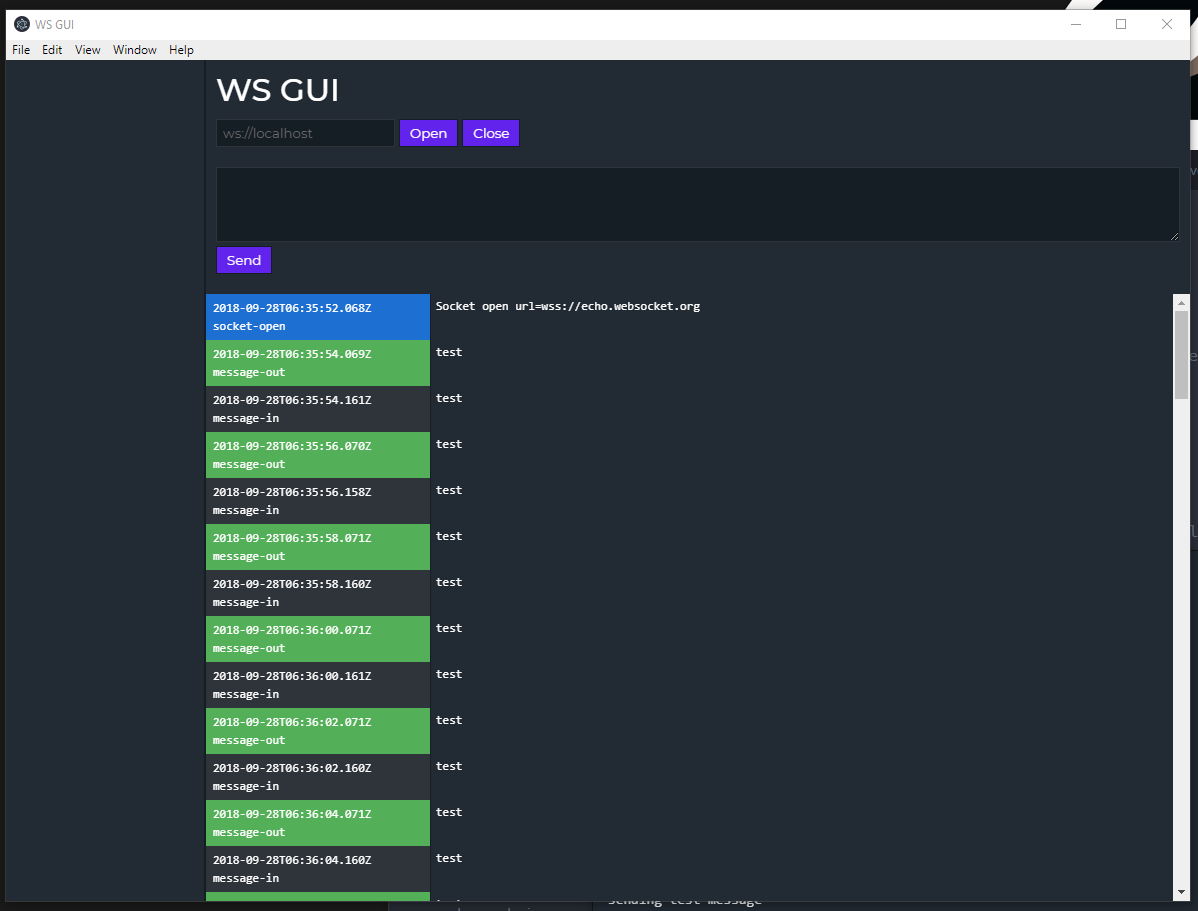
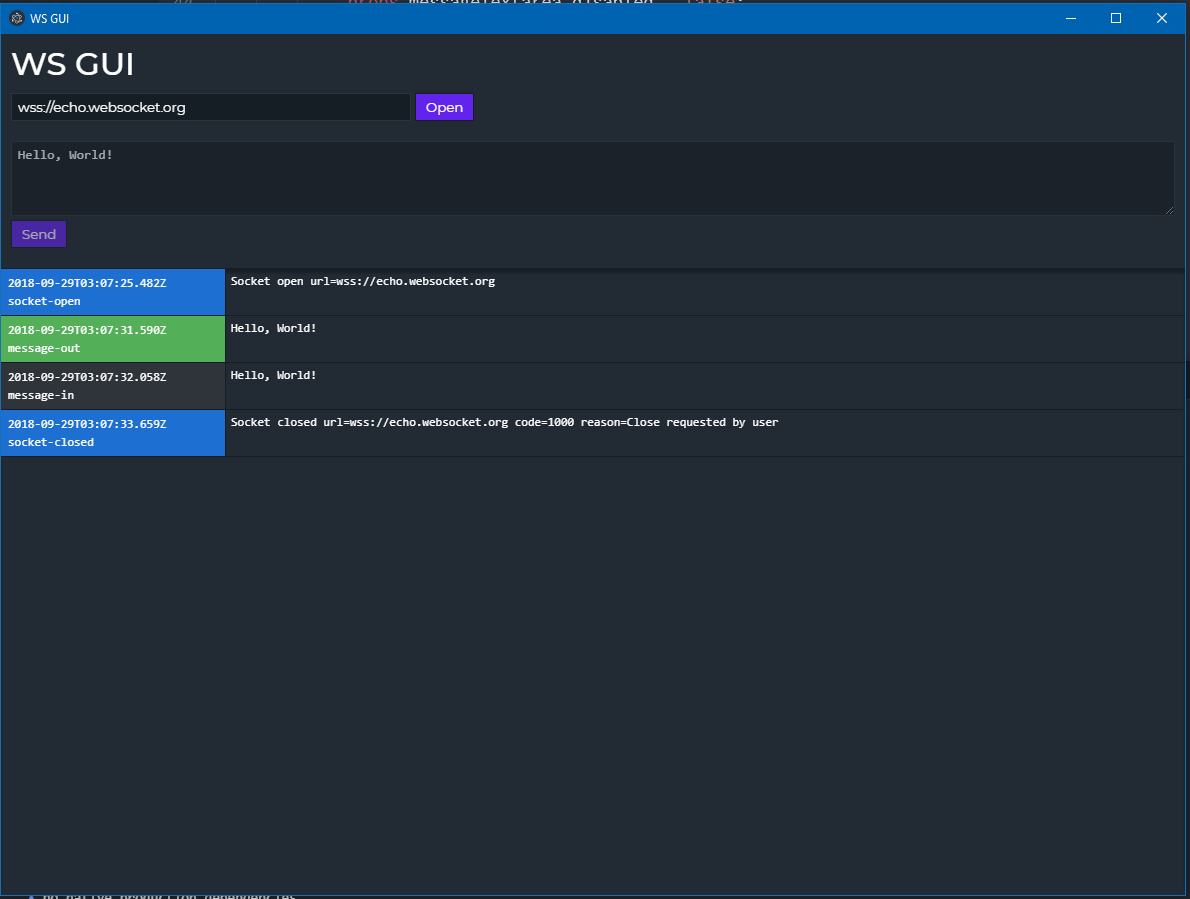
very basic functionality is working

Changed region(s): [[0.0, 0.0, 1.0, 1.0], [0.5908, 0.9655, 0.6218, 0.9967], [0.5286, 0.9655, 0.5597, 0.9967]]

diff --git a/src/components/outbound-panel/outbound-panel.js b/src/components/outbound-panel/outbound-panel.js
@@ -5,11 +5,14 @@ const { ipcRenderer } = require('electron');
 
 const props = new WeakMap();
 
+let nextMessageId = 1;
+
 exports.OutboundPanel = class OutboundPanel extends HTMLElement {
 	constructor() {
 		super();
 
 		const _props = {
+			state: 'closed',
 			shadow: initShadow(this, {
 				html: loadFile(__dirname, 'outbound-panel.html'),
 				css: [
@@ -22,19 +25,68 @@ exports.OutboundPanel = class OutboundPanel extends HTMLElement {
 		};
 
 		// Find the core elements we'll be working with
-		_props.openButton = _props.shadow.querySelector('#open');
-		_props.closeButton = _props.shadow.querySelector('#close');
+		_props.urlInput = _props.shadow.querySelector('#url');
+		_props.openCloseButton = _props.shadow.querySelector('#open-close');
+		_props.messageTextarea = _props.shadow.querySelector('#message');
+		_props.sendButton = _props.shadow.querySelector('#send');
 
-		// Bind the open socket button event
-		_props.openButton.addEventListener('click', () => {
-			ipcRenderer.send('socket.open', { url: 'wss://echo.websocket.org' });
+		// Bind the open/close socket button event
+		_props.openCloseButton.addEventListener('click', () => this.toggleOpen());
+
+		// Bind the send message button event
+		_props.sendButton.addEventListener('click', () => this.sendMessage());
+
+		// Bind the on open event
+		ipcRenderer.on('socket.open', () => {
+			_props.state = 'open';
+			_props.openCloseButton.disabled = false;
+			_props.sendButton.disabled = false;
+			_props.messageTextarea.disabled = false;
+			_props.openCloseButton.innerHTML = 'Close';
 		});
 
-		// Bind the close socket button event
-		_props.closeButton.addEventListener('click', () => {
-			ipcRenderer.send('socket.close', { code: 1000, reason: 'Close requested by user' });
+		// Bind the on open event
+		ipcRenderer.on('socket.closed', () => {
+			_props.state = 'closed';
+			_props.openCloseButton.disabled = false;
+			_props.openCloseButton.innerHTML = 'Open';
+			_props.urlInput.disabled = false;
 		});
 
 		props.set(this, _props);
+	}
+
+	toggleOpen() {
+		const _props = props.get(this);
+
+		switch (_props.state) {
+			// If it's open, then close the socket
+			case 'open':
+				_props.state = 'closing';
+				_props.openCloseButton.disabled = true;
+				_props.sendButton.disabled = true;
+				_props.messageTextarea.disabled = true;
+
+				ipcRenderer.send('socket.close', { code: 1000, reason: 'Close requested by user' });
+				break;
+
+			// If it's closed, then open the socket
+			case 'closed':
+				_props.state = 'opening';
+				_props.openCloseButton.disabled = true;
+				_props.urlInput.disabled = true;
+
+				ipcRenderer.send('socket.open', { url: _props.urlInput.value });
+				break;
+		}
+	}
+
+	sendMessage() {
+		const _props = props.get(this);
+
+		ipcRenderer.send('socket.send', {
+			id: nextMessageId++,
+			message: _props.messageTextarea.value
+		});
 	}
 };

diff --git a/src/socket/socket.js b/src/socket/socket.js
@@ -10,8 +10,6 @@ const props = new WeakMap();
 const maxBufferSize = 25;
 const maxBufferWait = 50;
 
-let testInterval;
-
 /**
  * Uses `ws.WebSocket` to make the actual outbound connection
  *
@@ -116,12 +114,6 @@ const onOpen = (socket) => () => {
 
 	app.send('socket.open', { time });
 	socket.pushToBuffer('socket-open', { url });
-
-	// REMOVEME - Test code
-	testInterval = setInterval(() => {
-		console.log('sending test message');
-		socket.send(1, 'test');
-	}, 2000);
 };
 
 const onMessage = (socket) => (message) => {
@@ -133,10 +125,8 @@ const onClose = (socket) => (code, reason) => {
 
 	console.log(`Socket closed code=${code} reason=${reason}`);
 
+	app.send('socket.closed', { code, reason });
 	socket.pushToBuffer('socket-close', { code, reason, url });
-
-	// REMOVEME - Test code
-	clearInterval(testInterval);
 };
 
 const onError = (socket) => (error) => {
@@ -166,5 +156,6 @@ const onUnexpectedResponse = (socket) => (req, res) => {
 };
 
 const onUpgrade = (socket) => (res) => {
-	//
+	console.log('Recieved socket upgrade response', res);
+	socket.pushToBuffer('socket-upgrade');
 };

diff --git a/src/components/connection-log/connection-log.js b/src/components/connection-log/connection-log.js
@@ -58,10 +58,22 @@ exports.ConnectionLog = class ConnectionLog extends HTMLElement {
 			redrawComponent(this, _props);
 		}
 	}
+
+	isScrolledToBottom() {
+		const { scrollTop, scrollHeight, offsetHeight } = this;
+
+		return (scrollTop + offsetHeight) >= scrollHeight;
+	}
 };
 
 const redrawComponent = (connectionLog, _props) => {
+	const isAtBottom = connectionLog.isScrolledToBottom();
+
 	_props.wrapper.innerHTML = _props.frames.join('');
+
+	if (isAtBottom) {
+		connectionLog.scrollTop = connectionLog.scrollHeight;
+	}
 };
 
 const drawFrame = (event) => {

diff --git a/src/main.js b/src/main.js
@@ -5,12 +5,18 @@ const { closeSocketForShutdown } = require('./socket');
 const createWindow = () => {
 	app.window = new BrowserWindow({
 		width: 1200,
-		height: 900
+		height: 900,
+		// frame: false,
+		title: 'WS GUI',
+		// icon: '',
+		webPreferences: {
+			backgroundThrottling: false
+		}
 	});
 
 	app.window.loadFile('src/main.html');
 
-	app.window.webContents.openDevTools({ mode: 'detach' });
+	// app.window.webContents.openDevTools({ mode: 'detach' });
 
 	app.window.on('closed', () => {
 		closeSocketForShutdown();

diff --git a/src/components/outbound-panel/outbound-panel.html b/src/components/outbound-panel/outbound-panel.html
@@ -1,12 +1,11 @@
 <div class="wrapper">
 	<h1>WS GUI</h1>
 	<div class="connection">
-		<input type="text" id="url" placeholder="ws://localhost" />
-		<button id="open">Open</button>
-		<button id="close">Close</button>
+		<input type="text" id="url" placeholder="ws://localhost" value="wss://echo.websocket.org" />
+		<button id="open-close">Open</button>
 	</div>
 	<div class="send-message">
-		<textarea id="message"></textarea>
+		<textarea id="message" disabled></textarea>
 		<br />
 		<button id="send">Send</button>
 	</div>

diff --git a/src/components/outbound-panel/outbound-panel.css b/src/components/outbound-panel/outbound-panel.css
@@ -1,6 +1,7 @@
 
 :host .wrapper {
 	padding: 10px;
+	border-bottom: 1px var(--color-grey-1) solid;
 }
 
 :host h1 {
@@ -11,6 +12,10 @@
 
 :host .connection {
 	padding: 10px 0;
+}
+
+:host #url {
+	width: 400px;
 }
 
 :host .send-message {

diff --git a/src/components/app/app.html b/src/components/app/app.html
@@ -1,7 +1,7 @@
 <div class="wrapper">
-	<aside>
+	<!-- <aside>
 		<ws-sidebar></ws-sidebar>
-	</aside>
+	</aside> -->
 	<main>
 		<ws-outbound-panel></ws-outbound-panel>
 		<ws-connection-log></ws-connection-log>

diff --git a/src/styles/inputs.css b/src/styles/inputs.css
@@ -7,3 +7,8 @@
 	border: 1px var(--color-grey-3) solid;
 	color: var(--color-white);
 }
+
+:host input[type="text"][disabled],
+:host textarea[disabled] {
+	opacity: 0.6;
+}

diff --git a/src/styles/buttons.css b/src/styles/buttons.css
@@ -7,3 +7,7 @@
 	font-family: var(--font-sans-serif);
 	border: 1px var(--color-grey-1) solid;
 }
+
+:host button[disabled] {
+	opacity: 0.6;
+}

diff --git a/src/components/app/app.css b/src/components/app/app.css
@@ -36,4 +36,5 @@
 	flex: 1 1 auto;
 	background: var(--color-grey-2);
 	overflow: auto;
+	box-shadow: 0px 4px 3px 0px rgba(0,0,0,0.3) inset
 }

diff --git a/src/components/event/event.css b/src/components/event/event.css
@@ -8,6 +8,7 @@
 :host .wrapper {
 	display: flex;
 	flex-direction: row;
+	border-bottom: 1px var(--color-grey-1) solid;
 }
 
 :host .meta {
